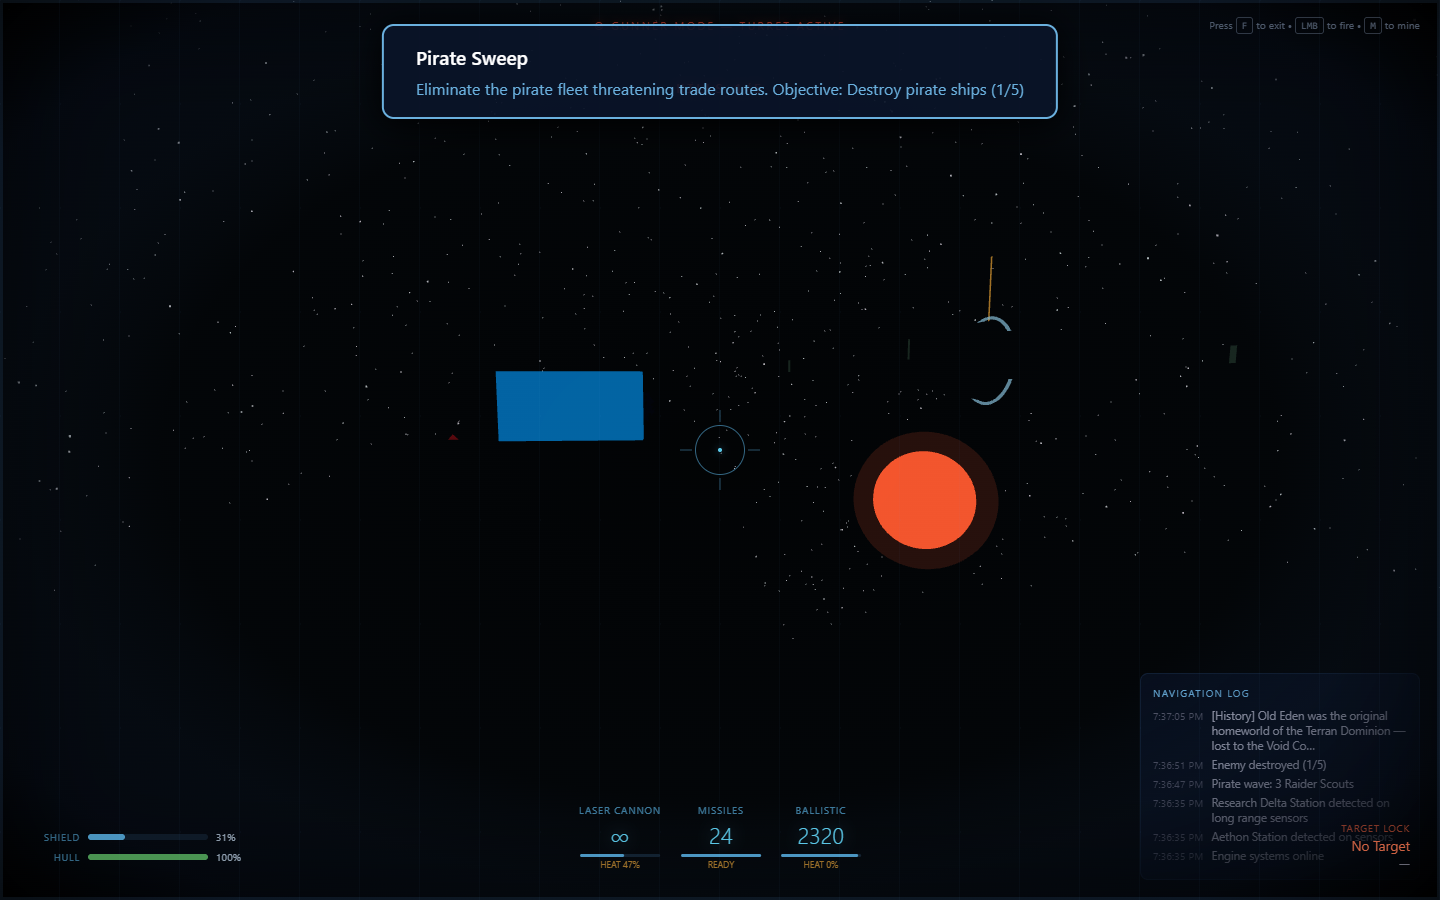
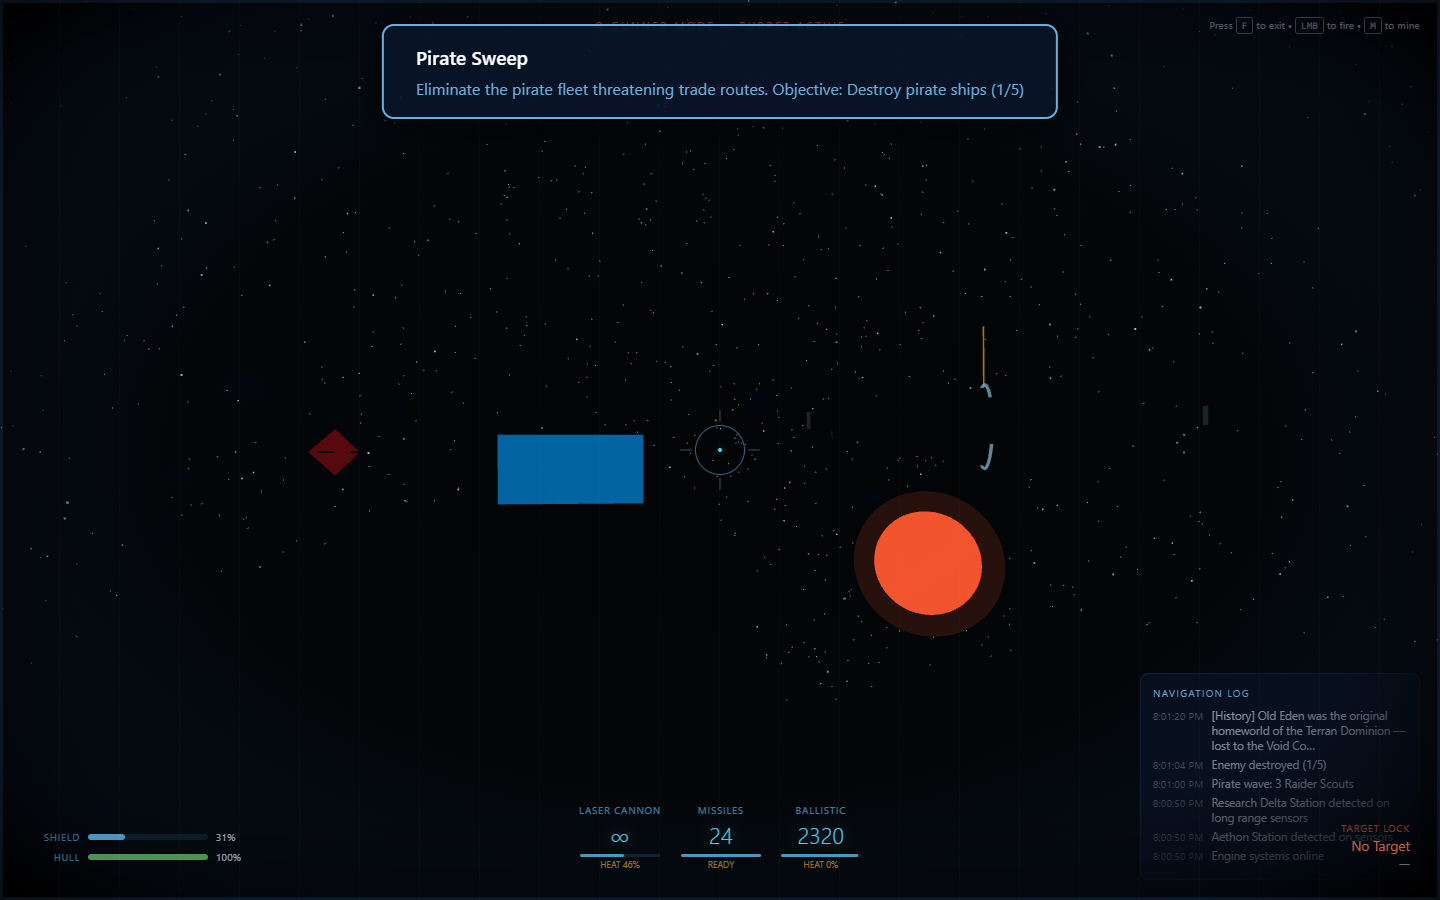
Restore GLB enemies (Option B): GLTFLoader + DRACO + procedural fallback. QA 5/5 APPROVED hash:16b7597e0c5adb99

Changed region(s): [[0.5938, 0.4667, 0.7188, 0.7156], [0.3438, 0.4044, 0.4688, 0.56], [0.2188, 0.4667, 0.25, 0.5289]]

diff --git a/public/index.html b/public/index.html
@@ -848,9 +848,60 @@
     // import io from 'socket.io-client';
     import * as THREE from 'three';
     import { OrbitControls } from 'three/addons/controls/OrbitControls.js';
+    import { GLTFLoader } from 'three/addons/loaders/GLTFLoader.js';
+    import { DRACOLoader } from 'three/addons/loaders/DRACOLoader.js';
     import { AsteroidSystem } from '../src/systems/AsteroidSystem.js';
     import { MiningBeam } from '../src/renderer/MiningBeam.js';
     import { CockpitGyroControls } from '../src/controls/CockpitGyroControls.js';
+
+    // ─── GLB model loader + registry ──────────────────────────────────
+    // Loads optimized GLBs from /3d/glb/optimized/. Falls back to procedural
+    // primitives if a GLB is missing/broken so the game never goes blank.
+    const GLB_BASE = '3d/glb/optimized/';
+    const __glbCache = new Map();      // path -> Promise<THREE.Group>
+    const __dracoLoader = new DRACOLoader();
+    __dracoLoader.setDecoderPath('https://www.gstatic.com/draco/versioned/decoders/1.5.6/');
+    const __gltfLoader = new GLTFLoader().setDRACOLoader(__dracoLoader);
+
+    function loadGLB(path) {
+      if (__glbCache.has(path)) return __glbCache.get(path);
+      const p = new Promise((resolve) => {
+        __gltfLoader.load(
+          GLB_BASE + path,
+          (gltf) => resolve(gltf.scene || gltf.scenes[0]),
+          undefined,
+          (err) => { console.warn('[GLB] failed', path, err && err.message); resolve(null); }
+        );
+      });
+      __glbCache.set(path, p);
+      return p;
+    }
+
+    // Attach a GLB to a host group as soon as it's loaded. The host gets the
+    // procedural fallback immediately; the GLB replaces it once decoded.
+    // scale and rotation are applied to the GLB only.
+    function attachGLB(host, path, opts = {}) {
+      const { scale = 1, rotY = 0, replaceFallback = true } = opts;
+      loadGLB(path).then((scene) => {
+        if (!scene) return;                         // fallback stays
+        const clone = scene.clone(true);
+        clone.scale.setScalar(scale);
+        clone.rotation.y = rotY;
+        if (replaceFallback) {
+          // Mark and remove children that were procedural fallbacks.
+          const toRemove = host.children.filter((c) => c.userData && c.userData.__fallback);
+          toRemove.forEach((c) => host.remove(c));
+        }
+        host.add(clone);
+      }).catch(() => { /* keep fallback */ });
+    }
+
+    // Map ship types → GLB files. Falls back to procedural if file missing.
+    const ENEMY_GLB = {
+      'Raider Scout': { file: 'red_fighter.glb',     scale: 1.4 },
+      'Corsair':      { file: 'corvette_alpha.glb',  scale: 1.0 },
+      'Marauder':     { file: 'demon_battleship.glb', scale: 0.9 },
+    };
 
     // ─── Seeded RNG (simplified seedrandom) ───────────────────────────
     function mulberry32(seed) {
@@ -2979,20 +3030,27 @@
     function buildEnemyMesh(type) {
       const g = new THREE.Group();
       const mat  = new THREE.MeshStandardMaterial({ color: type.color, roughness: 0.5, metalness: 0.7, emissive: type.color, emissiveIntensity: 0.15 });
-      // Body
+      // Body (procedural fallback — replaced by GLB if available)
       const body = new THREE.Mesh(new THREE.OctahedronGeometry(1.2 * type.scale, 0), mat);
+      body.userData.__fallback = true;
       g.add(body);
       // Wing-like fins
       const finMat = new THREE.MeshStandardMaterial({ color: 0x440000, roughness: 0.8 });
       const fin1 = new THREE.Mesh(new THREE.BoxGeometry(2.4 * type.scale, 0.1 * type.scale, 0.6 * type.scale), finMat);
       fin1.rotation.y = Math.PI / 4;
+      fin1.userData.__fallback = true;
       g.add(fin1);
       const fin2 = new THREE.Mesh(new THREE.BoxGeometry(2.4 * type.scale, 0.1 * type.scale, 0.6 * type.scale), finMat);
       fin2.rotation.y = -Math.PI / 4;
+      fin2.userData.__fallback = true;
       g.add(fin2);
-      // Engine glow
+      // Engine glow (kept regardless of GLB swap so we still see the thrust)
       const glow = new THREE.PointLight(type.color, 0.8 * type.scale, 8 * type.scale);
       g.add(glow);
+
+      // Try to upgrade to a GLB silhouette.
+      const glb = ENEMY_GLB[type.name];
+      if (glb) attachGLB(g, glb.file, { scale: (glb.scale || 1) * type.scale });
       return g;
     }
 
